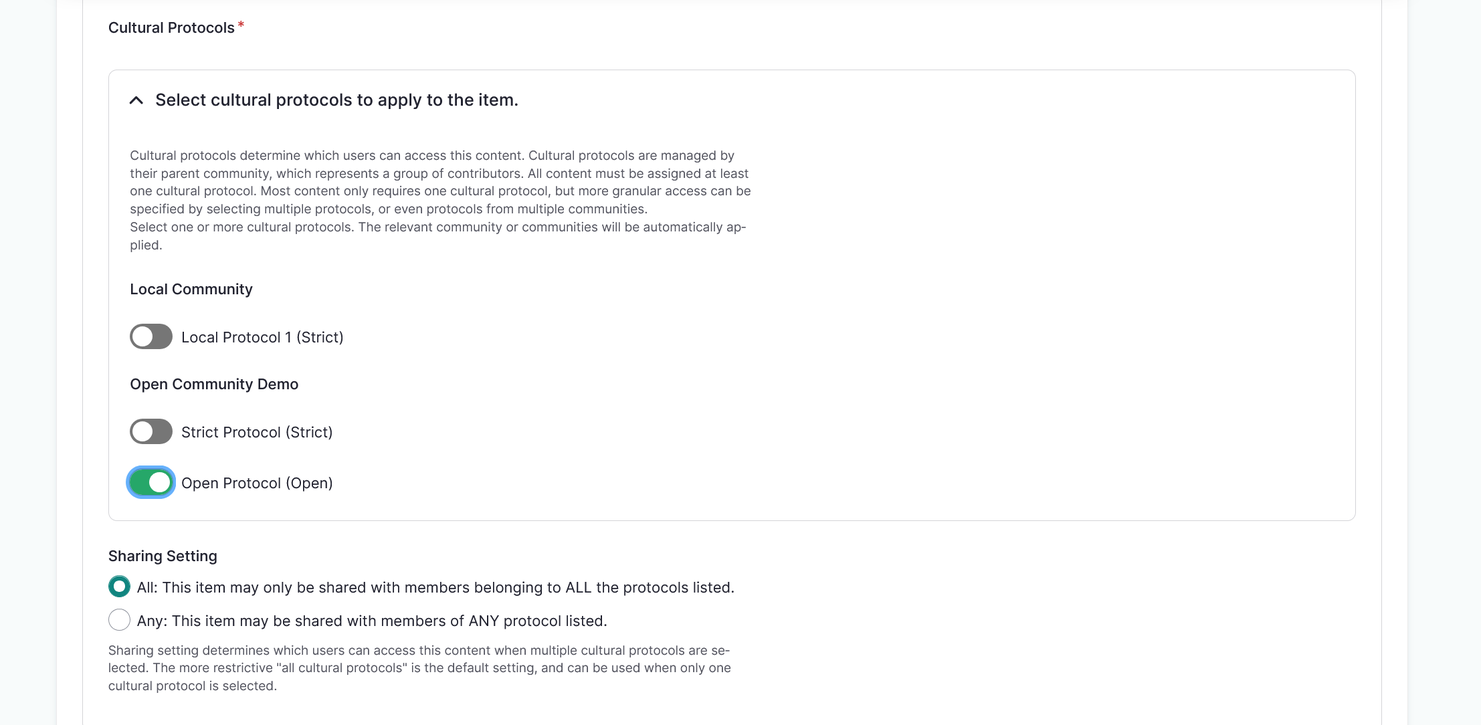
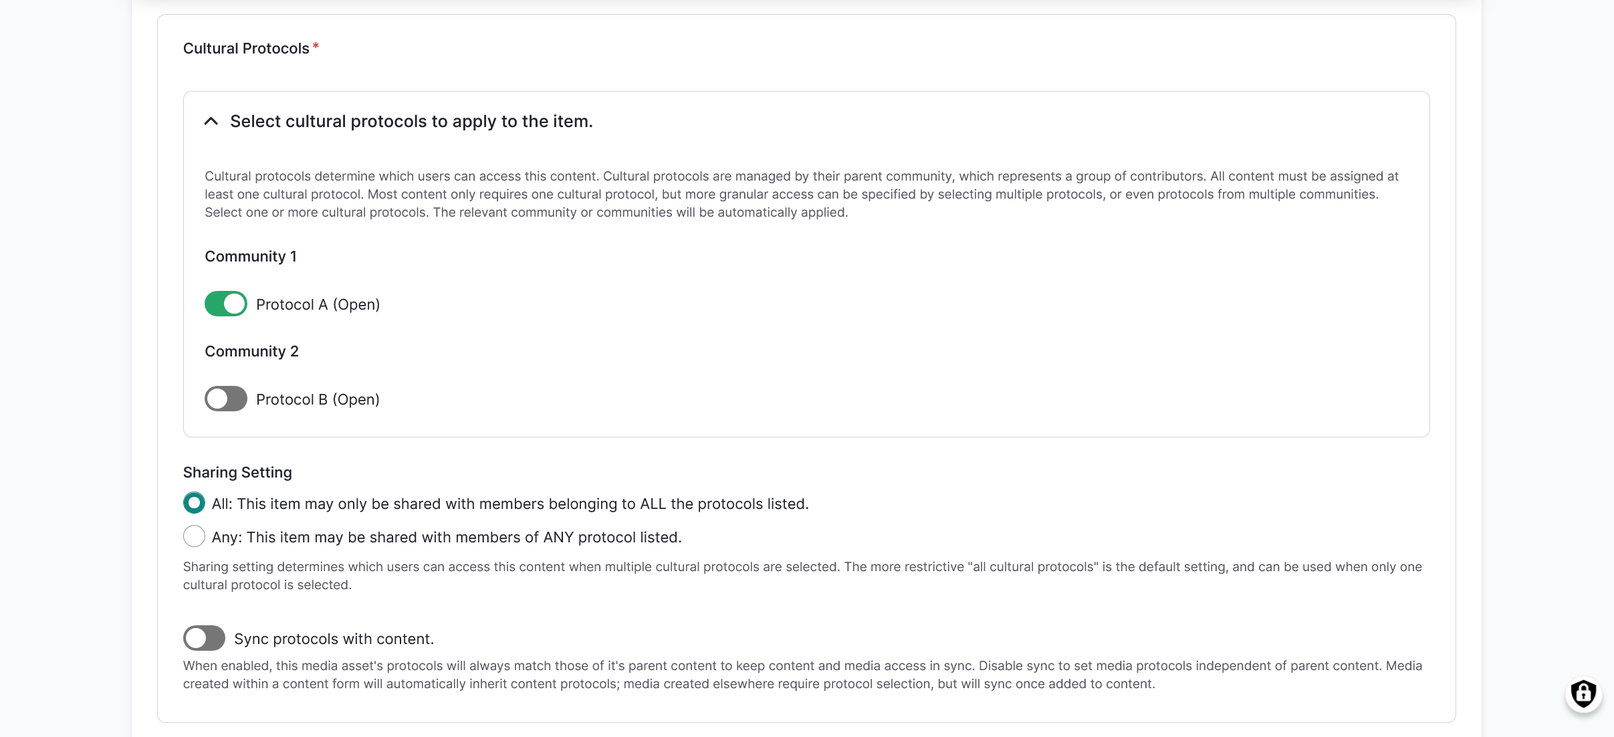
Sync media protocols with content updates
Updated:
Screenshots
By Type Media Upload articles
Media Asset Metadata
Create Media Assets
Manage Media Assets with Protocols

diff --git a/docs/media/ByTypeMediaUpload/Audio.md b/docs/media/ByTypeMediaUpload/Audio.md
@@ -28,7 +28,7 @@ tags:
 
     ![Screenshot of the file and filename showing how it automatically filled in.](../../_embeds/audiofiles2.png)
 
-5. Use the toggles to apply cultural protocols to the media asset.
+5. Use the toggle(s) to apply cultural protocols to the media asset. Media created within a content form will automatically inherit content protocols. 
 
     - This is a required field.
 
@@ -41,18 +41,20 @@ tags:
     !!! tip
         All is the default setting.
 
+7. Optionally, you may select the **Sync protocols with content** setting. When enabled, this setting ensures the media asset's protocols will always match those of it's parent content to keep content and media access in sync. Media created within a content form will automatically inherit content protocols. Media created elsewhere require protocol selection, but will sync once added to content. You can disable the sync setting to set media protocols independent of parent content. 
+
     ![Screenshot of the cultural protocols and sharing settings fields](../../_embeds/mediaprotocols.png)
 
-7. Audio files are represented by an interactive media player instead of a thumbnail image by default. You may choose to add a thumbnail to your audio file.
+8. Audio files are represented by an interactive media player instead of a thumbnail image by default. You may choose to add a thumbnail to your audio file.
 
     - Select "Choose file" to upload an image.
     - Provide alternative text for your thumbnail. This is required for all thumbnail images. 
 
-8. In the *Identifier* field, provide a unique identifier for the audio file. This identifier is usually an accession number, catalogue number, or other unique identifier.
+9. In the *Identifier* field, provide a unique identifier for the audio file. This identifier is usually an accession number, catalogue number, or other unique identifier.
 
     ![Screenshot of the thumbnail and identifier fields with a thumbnail and unique identifier included](../../_embeds/audiofiles3.png)
 
-9. Use the *People* field to enter the name of anyone present, named, or referenced in the media asset. 
+10. Use the *People* field to enter the name of anyone present, named, or referenced in the media asset. 
     
     !!! tip
         This field feeds into the "deceased person" media content warnings.
@@ -61,7 +63,7 @@ tags:
     - Select and drag to reorder if necessary. 
     - To remove a person, select the "X".
     
-10. Select a *Media tag* to apply to the audio file by entering text in the dropdown box and selecting from the provided options. 
+11. Select a *Media tag* to apply to the audio file by entering text in the dropdown box and selecting from the provided options. 
 
     !!! tip 
         Media tags can be used to tag and locate assets within the media library (for example, `oral history` or `newspaper`). They can also be used to trigger media content warnings when that tool is enabled.
@@ -72,14 +74,14 @@ tags:
 
     ![Screenshot of the people and media tag fields, with the people field filled in.](../../_embeds/audiofiles4.png)
 
-11. Use the *Contributor* field to enter the name of the speaker or singer of the recording. 
+12. Use the *Contributor* field to enter the name of the speaker or singer of the recording. 
 
     - If more than one person should be listed as a contributor, use the text box to select existing contributor terms or add new ones.
     - Select and drag to reorder your contributors if necessary. 
     - To remove a contributor, select the "X".
 
-12. Use the *Transcription* field to include a transcription of the content of your audio file. This field is intended  for use when uploading recordings of dictionary words and sample sentences and has a character limit of 255 characters.
+13. Use the *Transcription* field to include a transcription of the content of your audio file. This field is intended  for use when uploading recordings of dictionary words and sample sentences and has a character limit of 255 characters.
 
     ![Screenshot of the contributor and transcription fields, filled in with a name and sample sentence.](../../_embeds/audiofiles5.png)
 
-13. Select the "Save" button to save your media asset.
+14. Select the "Save" button to save your media asset.

diff --git a/docs/media/ByTypeMediaUpload/SoundCloud.md b/docs/media/ByTypeMediaUpload/SoundCloud.md
@@ -24,7 +24,7 @@ tags:
 
     ![Screenshot of the SoundCloud URL and name field.](../../_embeds/soundcloud1.png)   
 
-5. Use the toggle(s) to apply cultural protocols to the media asset.
+5. Use the toggle(s) to apply cultural protocols to the media asset. Media created within a content form will automatically inherit content protocols. 
 
     - This is a required field.
 
@@ -37,15 +37,17 @@ tags:
     !!! tip
         All is the default setting.
 
+7. Optionally, you may select the **Sync protocols with content** setting. When enabled, this setting ensures the media asset's protocols will always match those of it's parent content to keep content and media access in sync. Media created within a content form will automatically inherit content protocols. Media created elsewhere require protocol selection, but will sync once added to content. You can disable the sync setting to set media protocols independent of parent content. 
+
     ![Screenshot of the cultural protocols and sharing settings fields](../../_embeds/mediaprotocols.png)
 
-7. SoundCloud assets are represented by an interactive media player instead of a thumbnail image by default. You may choose to add a thumbnail to your SoundCloud asset.
+8. SoundCloud assets are represented by an interactive media player instead of a thumbnail image by default. You may choose to add a thumbnail to your SoundCloud asset.
 
     - Select "Choose file" to upload an image.
     - Provide alternative text for your thumbnail. This is required for all thumbnail images. 
 
-8. In the *Identifier* field, provide a unique identifier for the SoundCloud asset. This identifier is usually an accession number, catalogue number, or other unique identifier.
-9. Use the *People* field to enter the name of anyone present, named, or referenced in the media asset. 
+9. In the *Identifier* field, provide a unique identifier for the SoundCloud asset. This identifier is usually an accession number, catalogue number, or other unique identifier.
+10. Use the *People* field to enter the name of anyone present, named, or referenced in the media asset. 
     
     !!! tip
         This field feeds into the "deceased person" media content warnings.
@@ -54,7 +56,7 @@ tags:
     - Select and drag to reorder if necessary. 
     - To remove a person, select the "X".
     
-10. Select a *Media tag* by entering text in the text box and selecting from the provided options. Include as many media tags as needed. Select from existing media tags or add new ones.
+11. Select a *Media tag* by entering text in the text box and selecting from the provided options. Include as many media tags as needed. Select from existing media tags or add new ones.
 
     !!! tip 
         Media tags can be used to tag and locate assets within the media library (for example, `oral history` or `newspaper`). They can also be used to trigger media content warnings when that tool is enabled.
@@ -64,7 +66,7 @@ tags:
 
     ![Screenshot of the people and media tag fields, with the appropriate information filled in.](../../_embeds/soundcloud2.png) 
 
-11. Use the *Contributor* field to enter the name of the speaker or singer of the recording. 
+12. Use the *Contributor* field to enter the name of the speaker or singer of the recording. 
 
     - If more than one person should be listed as a contributor, use the text box to select existing contributor terms or add new ones.
     - Select and drag to reorder your contributors if necessary. 
@@ -72,4 +74,4 @@ tags:
 
     ![Screenshot of the contributor field with the contributor's name included](../../_embeds/soundcloud3.png)
 
-12. Select the "Save" button to save your media asset.
+13. Select the "Save" button to save your media asset.

diff --git a/docs/media/ByTypeMediaUpload/Document.md b/docs/media/ByTypeMediaUpload/Document.md
@@ -28,7 +28,7 @@ tags:
 
     ![Screenshot of the file and filename showing how it automatically filled in.](../../_embeds/document2.png)
 
-5. Use the toggle(s) to apply cultural protocols to the media asset.
+5. Use the toggle(s) to apply cultural protocols to the media asset. Media created within a content form will automatically inherit content protocols. 
 
     - This is a required field.
 
@@ -41,18 +41,20 @@ tags:
     !!! tip
         All is the default setting.
 
+7. Optionally, you may select the **Sync protocols with content** setting. When enabled, this setting ensures the media asset's protocols will always match those of it's parent content to keep content and media access in sync. Media created within a content form will automatically inherit content protocols. Media created elsewhere require protocol selection, but will sync once added to content. You can disable the sync setting to set media protocols independent of parent content. 
+
     ![Screenshot of the cultural protocols and sharing settings fields](../../_embeds/mediaprotocols.png)
 
-7. You may choose to add a thumbnail to your document. A thumbnail image showing the first page of the document is automatically generated and is normally used, with a generic image used in certain contexts. A thumbnail image does not usually need to be provided. 
+8. You may choose to add a thumbnail to your document. A thumbnail image showing the first page of the document is automatically generated and is normally used, with a generic image used in certain contexts. A thumbnail image does not usually need to be provided. 
     
     - Select "Choose file" to upload an image.
     - Provide alternative text for your thumbnail. This is required for all thumbnail images. 
 
-8. In the *Identifier* field, provide a unique identifier for the document. This identifier is usually an accession number, catalogue number, or other unique identifier.
+9. In the *Identifier* field, provide a unique identifier for the document. This identifier is usually an accession number, catalogue number, or other unique identifier.
 
     ![Screenshot of the thumbnail and identifier fields with a thumbnail and unique identifier included](../../_embeds/document3.png)
 
-9. Use the *People* field to enter the name of anyone present, named, or referenced in the media asset. 
+10. Use the *People* field to enter the name of anyone present, named, or referenced in the media asset. 
     
     !!! tip
         This field feeds into the "deceased person" media content warnings.
@@ -61,7 +63,7 @@ tags:
     - Select and drag to reorder if necessary. 
     - To remove a person, select the "X".
     
-10. Select a *Media tag* by entering text in the text box and selecting from the provided options. Include as many media tags as needed. Select from existing media tags or add new ones.
+11. Select a *Media tag* by entering text in the text box and selecting from the provided options. Include as many media tags as needed. Select from existing media tags or add new ones.
 
     !!! tip 
         Media tags can be used to tag and locate assets within the media library (for example, `oral history` or `newspaper`). They can also be used to trigger media content warnings when that tool is enabled.
@@ -71,4 +73,4 @@ tags:
 
     ![Screenshot of the people and media tag fields, with the appropriate information filled in.](../../_embeds/document4.png)
 
-11. Select the "Save" button to save your media asset.
+12. Select the "Save" button to save your media asset.

diff --git a/docs/media/ByTypeMediaUpload/ExternalEmbed.md b/docs/media/ByTypeMediaUpload/ExternalEmbed.md
@@ -24,7 +24,7 @@ tags:
 
     ![Screenshot of the external embed field and name field with text filled in.](../../_embeds/embed1.png)
 
-4. Use the toggle(s) to apply cultural protocols to the media asset.
+4. Use the toggle(s) to apply cultural protocols to the media asset. Media created within a content form will automatically inherit content protocols.  
 
     - This is a required field.
     
@@ -40,9 +40,11 @@ tags:
     !!! tip
         All is the default setting.
 
+6. Optionally, you may select the **Sync protocols with content** setting. When enabled, this setting ensures the media asset's protocols will always match those of it's parent content to keep content and media access in sync. Media created within a content form will automatically inherit content protocols. Media created elsewhere require protocol selection, but will sync once added to content. You can disable the sync setting to set media protocols independent of parent content. 
+
     ![Screenshot of the cultural protocols and sharing settings fields](../../_embeds/mediaprotocols.png)        
 
-6. External embeds are represented by a thumbnail image. This must be added manually as it is not automatically generated, and are often a screenshot of the embedded content.
+7. External embeds are represented by a thumbnail image. This must be added manually as it is not automatically generated, and are often a screenshot of the embedded content.
 
     - Select "Choose file" to upload an image.
     - Provide alternative text for your thumbnail. This is required for all thumbnail images. 
@@ -53,8 +55,8 @@ tags:
     ![Screenshot of the thumbnail with alternative text filled in.](../../_embeds/embed3.png)
     
 
-7. In the *Identifier* field, provide a unique identifier for the external embed. This identifier is usually an accession number, catalogue number, or other unique identifier.
-8. Use the *People* field to enter the name of anyone present, named, or referenced in the media asset. 
+8. In the *Identifier* field, provide a unique identifier for the external embed. This identifier is usually an accession number, catalogue number, or other unique identifier.
+9. Use the *People* field to enter the name of anyone present, named, or referenced in the media asset. 
     
     !!! tip
         This field feeds into the "deceased person" media content warnings.
@@ -63,7 +65,7 @@ tags:
     - Select and drag to reorder if necessary. 
     - To remove a person, select the "X".
     
-9. Select a *Media tag* by entering text in the text box and selecting from the provided options. Include as many media tags as needed. Select from existing media tags or add new ones.
+10. Select a *Media tag* by entering text in the text box and selecting from the provided options. Include as many media tags as needed. Select from existing media tags or add new ones.
 
     !!! tip 
         Media tags can be used to tag and locate assets within the media library (for example, `oral history` or `newspaper`). They can also be used to trigger media content warnings when that tool is enabled.
@@ -73,4 +75,4 @@ tags:
 
     ![Screenshot of the people and media tag fields, with the appropriate information filled in.](../../_embeds/embed4.png)
 
-10. Select the "Save" button to save your media asset.
+11. Select the "Save" button to save your media asset.

diff --git a/docs/media/ByTypeMediaUpload/RemoteVideo.md b/docs/media/ByTypeMediaUpload/RemoteVideo.md
@@ -22,7 +22,7 @@ tags:
 
     ![Screenshot of the remote video URL and name field.](../../_embeds/remotevideo1.png)
 
-5. Use the toggle(s) to apply cultural protocols to the media asset.
+5. Use the toggle(s) to apply cultural protocols to the media asset. Media created within a content form will automatically inherit content protocols. 
 
     - This is a required field.
 
@@ -35,15 +35,17 @@ tags:
     !!! tip
         All is the default setting.
 
+7. Optionally, you may select the **Sync protocols with content** setting. When enabled, this setting ensures the media asset's protocols will always match those of it's parent content to keep content and media access in sync. Media created within a content form will automatically inherit content protocols. Media created elsewhere require protocol selection, but will sync once added to content. You can disable the sync setting to set media protocols independent of parent content. 
+
     ![Screenshot of the cultural protocols and sharing settings fields](../../_embeds/mediaprotocols.png)
 
-7. Remote video assets are represented by an interactive media player instead of a thumbnail image by default. You may choose to add a thumbnail to your remote video asset.
+8. Remote video assets are represented by an interactive media player instead of a thumbnail image by default. You may choose to add a thumbnail to your remote video asset.
 
     - Select "Choose file" to upload an image.
     - Provide alternative text for your thumbnail. This is required for all thumbnail images. 
 
-8. In the *Identifier* field, provide a unique identifier for the remote video asset. This identifier is usually an accession number, catalogue number, or other unique identifier.
-9. Use the *People* field to enter the name of anyone present, named, or referenced in the media asset. 
+9. In the *Identifier* field, provide a unique identifier for the remote video asset. This identifier is usually an accession number, catalogue number, or other unique identifier.
+10. Use the *People* field to enter the name of anyone present, named, or referenced in the media asset. 
     
     !!! tip
         This field feeds into the "deceased person" media content warnings.
@@ -52,7 +54,7 @@ tags:
     - Select and drag to reorder if necessary. 
     - To remove a person, select the "X".
     
-10. Select a *Media tag* by entering text in the text box and selecting from the provided options. Include as many media tags as needed. Select from existing media tags or add new ones.
+11. Select a *Media tag* by entering text in the text box and selecting from the provided options. Include as many media tags as needed. Select from existing media tags or add new ones.
 
     !!! tip 
         Media tags can be used to tag and locate assets within the media library (for example, `oral history` or `newspaper`). They can also be used to trigger media content warnings when that tool is enabled.
@@ -62,4 +64,4 @@ tags:
 
     ![Screenshot of the people and media tag fields, with the appropriate information filled in.](../../_embeds/remotevideo2.png)
 
-11. Select the "Save" button to save your media asset.
+12. Select the "Save" button to save your media asset.

diff --git a/docs/media/ByTypeMediaUpload/Video.md b/docs/media/ByTypeMediaUpload/Video.md
@@ -31,7 +31,7 @@ tags:
 
     ![Screenshot of the file and filename showing how it automatically filled in.](../../_embeds/video2.png)
 
-5. Use the toggle(s) to apply cultural protocols to the media asset.
+5. Use the toggle(s) to apply cultural protocols to the media asset. Media created within a content form will automatically inherit content protocols. 
 
     - This is a required field.
 
@@ -44,15 +44,17 @@ tags:
     !!! tip
         All is the default setting.
 
+7. Optionally, you may select the **Sync protocols with content** setting. When enabled, this setting ensures the media asset's protocols will always match those of it's parent content to keep content and media access in sync. Media created within a content form will automatically inherit content protocols. Media created elsewhere require protocol selection, but will sync once added to content. You can disable the sync setting to set media protocols independent of parent content. 
+
     ![Screenshot of the cultural protocols and sharing settings fields](../../_embeds/mediaprotocols.png)
 
-7. Video files are represented by an interactive media player instead of a thumbnail image by default. You may choose to add a thumbnail to your video file.
+8. Video files are represented by an interactive media player instead of a thumbnail image by default. You may choose to add a thumbnail to your video file.
 
     - Select "Choose file" to upload an image.
     - Provide alternative text for your thumbnail. This is required for all thumbnail images. 
 
-8. In the *Identifier* field, provide a unique identifier for the video file. This identifier is usually an accession number, catalogue number, or other unique identifier.
-9. Use the *People* field to enter the name of anyone present, named, or referenced in the media asset. 
+9. In the *Identifier* field, provide a unique identifier for the video file. This identifier is usually an accession number, catalogue number, or other unique identifier.
+10. Use the *People* field to enter the name of anyone present, named, or referenced in the media asset. 
     
     !!! tip
         This field feeds into the "deceased person" media content warnings.
@@ -61,7 +63,7 @@ tags:
     - Select and drag to reorder if necessary. 
     - To remove a person, select the "X".
     
-10. Select a *Media tag* by entering text in the text box and selecting from the provided options. Include as many media tags as needed. Select from existing media tags or add new ones.
+11. Select a *Media tag* by entering text in the text box and selecting from the provided options. Include as many media tags as needed. Select from existing media tags or add new ones.
 
     !!! tip 
         Media tags can be used to tag and locate assets within the media library (for example, `oral history` or `newspaper`). They can also be used to trigger media content warnings when that tool is enabled.
@@ -71,4 +73,4 @@ tags:
 
     ![Screenshot of the people and media tag fields, with the appropriate information filled in.](../../_embeds/video3.png)
 
-11. Select the "Save" button to save your media asset.
+12. Select the "Save" button to save your media asset.

diff --git a/docs/media/ByTypeMediaUpload/Image.md b/docs/media/ByTypeMediaUpload/Image.md
@@ -32,7 +32,7 @@ tags:
 
     ![Screenshot of the alternative text, along with the file and filename, showing how it automatically filled in.](../../_embeds/image2.png)
 
-6. Use the toggle(s) to apply cultural protocols to the media asset.
+6. Use the toggle(s) to apply cultural protocols to the media asset. Media created within a content form will automatically inherit content protocols. 
 
     - This is a required field.
 
@@ -45,10 +45,12 @@ tags:
     !!! tip
         All is the default setting.
 
+8. Optionally, you may select the **Sync protocols with content** setting. When enabled, this setting ensures the media asset's protocols will always match those of it's parent content to keep content and media access in sync. Media created within a content form will automatically inherit content protocols. Media created elsewhere require protocol selection, but will sync once added to content. You can disable the sync setting to set media protocols independent of parent content. 
+
     ![Screenshot of the cultural protocols and sharing settings fields](../../_embeds/mediaprotocols.png)
 
-8. In the *Identifier* field, provide a unique identifier for the image file. This identifier is usually an accession number, catalogue number, or other unique identifier.
-9. Use the *People* field to enter the name of anyone present, named, or referenced in the media asset. 
+9. In the *Identifier* field, provide a unique identifier for the image file. This identifier is usually an accession number, catalogue number, or other unique identifier.
+10. Use the *People* field to enter the name of anyone present, named, or referenced in the media asset. 
     
     !!! tip
         This field feeds into the "deceased person" media content warnings.
@@ -57,7 +59,7 @@ tags:
     - Select and drag to reorder if necessary. 
     - To remove a person, select the "X".
     
-10. Select a *Media tag* by entering text in the text box and selecting from the provided options. Include as many media tags as needed. Select from existing media tags or add new ones.
+11. Select a *Media tag* by entering text in the text box and selecting from the provided options. Include as many media tags as needed. Select from existing media tags or add new ones.
 
     !!! tip 
         Media tags can be used to tag and locate assets within the media library (for example, `oral history` or `newspaper`). They can also be used to trigger media content warnings when that tool is enabled.
@@ -67,4 +69,4 @@ tags:
 
     ![Screenshot of the people and media tag fields, with the appropriate information filled in.](../../_embeds/image3.png)
 
-11. Select the "Save" button to save your media asset.
+12. Select the "Save" button to save your media asset.

diff --git a/docs/media/ManageMediaAccessWithProtocols.md b/docs/media/ManageMediaAccessWithProtocols.md
@@ -13,9 +13,15 @@ All media assets require cultural protocols.
 !!! tip 
     In Mukurtu v3 protocols were optional. This is a new requirement for Mukurtu v4.
 
-In most cases you will want to apply the same cultural protocols to each media asset that are applied to the content items where the media asset is used. This ensures that if a user can view the content, they can also view the media assets.
+In most cases you will want to apply the same cultural protocols to each media asset that are applied to the content items where the media asset is used. This ensures that if a user can view the content, they can also view the media assets. To this end, we have included an optional **Sync protocols with content** setting. When enabled, this setting ensures the media asset's protocols will always match those of it's parent content to keep content and media access in sync. Media created within a content form will automatically inherit content protocols. Media created elsewhere require protocol selection, but will sync once added to content. You can disable the sync setting to set media protocols independent of parent content. 
 
-If necessary, you can have different protocols between content and media. For example, a digital heritage item under an open protocol featuring a media asset under a strict protocol would make the metadata and item discoverable, but limit access to the media assets.
+When the **Sync protocols with content** toggle is selected, the cultural protocol and sharing settings options are automatically hidden.
+
+![Screenshot of the cultural protocols field with a protocol selected and the sync protocols with content field highlighted.](../_embeds/sync2.png)
+
+![Screenshot of the cultural protocols field with the sync protocols with content toggle selected.](../_embeds/sync1.png)
+
+You can have different protocols between content and media if this is appropriate or preferred for your site. This allows you to further manage access to media assets for your site users while keeping the metadata more widely accessible. For example, a digital heritage item under an open protocol featuring a media asset under a strict protocol would make the metadata and item discoverable, but limit access to the media assets.
 
 ![Screenshot of the menu view of a digital heritage item with an open protocol featuring a media asset with a strict cultural protocol.](../_embeds/mediaadminreview.png)
 

diff --git a/docs/media/MediaAssetMetadata.md b/docs/media/MediaAssetMetadata.md
@@ -24,6 +24,7 @@ Media assets are the core element of digital heritage items and other content. T
 - Cultural protocols must be applied directly to media assets and determine which users can access the media asset. 
 - Cultural protocols are managed by their parent community, which represents a group of contributors.
 - All media assets must be assigned at least one cultural protocol. Most media assets only require one cultural protocol, but more granular access can be specified by selecting multiple protocols or protocols from multiple communities.
+- Media created within a content form will automatically inherit content protocols. Inherited protocols can be edited. Media created elsewhere require protocol selection.
 - These are required fields.  
 
 #### Cultural Protocol 
@@ -39,6 +40,13 @@ Media assets are the core element of digital heritage items and other content. T
     
     !!!tip
         All is the default setting.
+
+#### Sync Protocols with Content
+
+- When enabled, this optional setting ensures the media asset's protocols will always match those of it's parent content to keep content and media access in sync. 
+- Media created within a content form will automatically inherit content protocols. 
+- Media created elsewhere require protocol selection, but will sync once added to content. 
+- You can disable the sync setting to set media protocols independent of parent content.
 
 ![Screenshot of the cultural protocol and sharing settings widget with a community and cultural protocol selected](../_embeds/mediaassetmetadata1.png)
 

diff --git a/docs/media/CreateMediaAssets.md b/docs/media/CreateMediaAssets.md
@@ -76,13 +76,13 @@ Mukurtu 4 has the option to bulk add media assets. To add more than one media as
 ## Locally hosted media
 
 - Names are automatically generated from the filename of the media. 
-- *Cultural protocols* and *Sharing settings* are required. In most cases they should match the protocol and sharing setting of the content they will be used in.
+- *Cultural protocols* and *Sharing settings* are required. We have included an optional **Sync Protocols with content** setting that can be enabled when appropriate.
 
 ## Remotely hosted media 
 
 - Enter the URL to link to your media asset.  
 - Filenames automatically generate for remotely hosted media.
-- Make sure you select a *Sharing Setting* and *Cultural Protocol* to apply to your media. 
+- Make sure you select a *Sharing Setting* and *Cultural Protocol* to apply to your media, or select the **Sync Protocols with content** setting. For more information on this setting, refer to [Manage Media Access with Cultural Protocols](ManageMediaAccessWithProtocols.md).
 
 ## Embedded media
 
